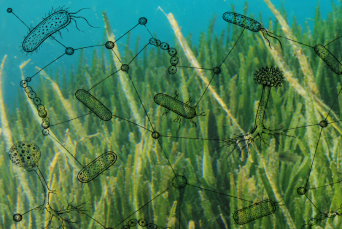
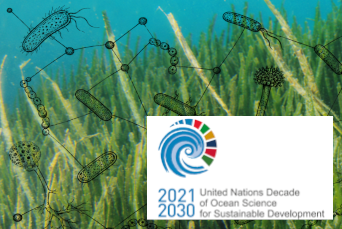
update lab news

Changed region(s): [[0.4094, 0.4891, 0.9942, 0.9782]]

diff --git a/news.html b/news.html
@@ -25,6 +25,19 @@
         <h2>Latest Updates</h2>
 
 
+
+
+     <div class="news-item">
+		<a href="https://gzahn.github.io/people.html" target="_blank">
+	            <img src="assets/images/lab_group_photo_2026.jpg" alt="Lab group standing in a room, left to right: Talia, Molly, Israt, Bailey, Emmanuel, Aubrey, Scarlett, Geoff">
+            	</a>
+	    <p><strong>Sep 2026: Lab party with the whole team. Welcome to our newest members: Bailey Jannuzzi, Emmanuel Opoku, and Aubrey Aaron!</strong></p>
+	    
+        </div>
+
+<br><br>
+
+
      <div class="news-item">
 		<a href="https://gzahn.github.io" target="_blank">
 	            <img src="assets/images/mushroom_waves.png" alt="AI image of mushroom in ocean waves">
@@ -44,6 +57,8 @@
 	            <img src="assets/images/seagrass_network.png" alt="Seagrass and microbial network">
             	</a>
 	    <p><strong>May 2026: On Earth Day, the lab was awarded funding for our collaborative project to develop AI tools to guide seagrass restoration using microbiome inoculations. </strong></p>
+	    
+	    <p><strong>Update: This project has been endorsed by UNESCO as an official Ocean Decade contribution! </strong></p>
 	    
 	     <p><a href="https://reviverestore.org/projects/biotech-for-climate-resilience-fund/">Revive & Restore's Climate Resilience Fund</a>, will support two years of work to train and test our microbial coalescence modeling approach. See a bit about the work <a href="https://docs.google.com/presentation/d/e/2PACX-1vTFJK0K_dC9hFM3uL4lNdcltfcRO3IjdLF608KIxhqPrhdfSZFlTq-ROT6EdJQGk895OfPnvuAKS4ED/pub?start=true&loop=true&delayms=5000">HERE</a>.</p>
 	    
